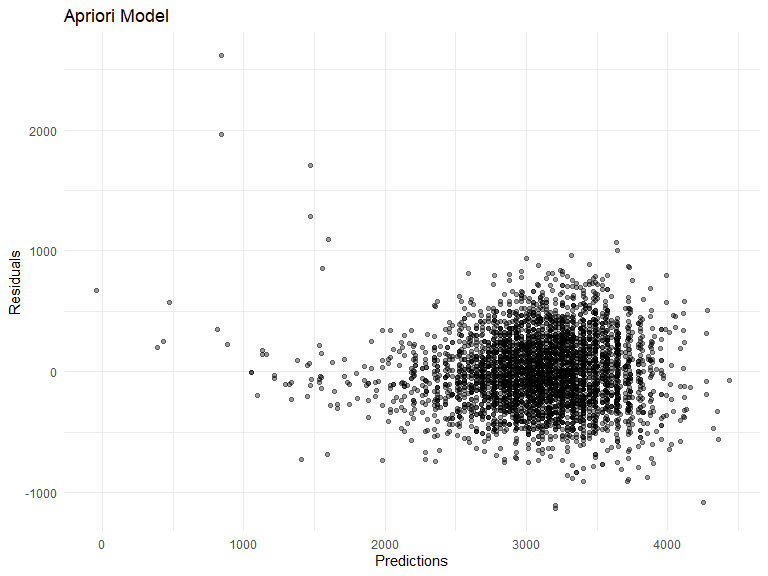
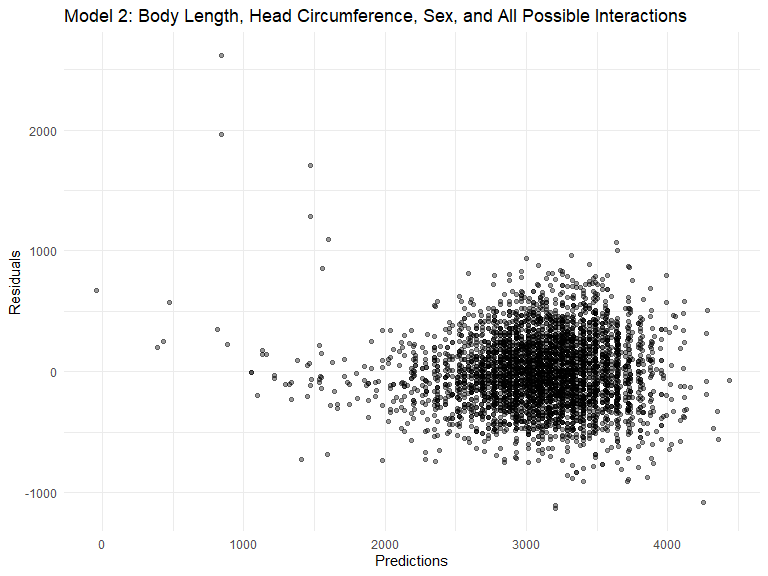
added comments and a few edits to question 2

Changed region(s): [[0.0625, 0.0, 0.9062, 0.0625]]

diff --git a/p8105_hw6_sne2114.md b/p8105_hw6_sne2114.md
@@ -164,7 +164,38 @@ pre-preganncy weight).
 
 ``` r
 my_model = lm(bwt ~ blength + bhead + gaweeks + delwt + ppwt + wtgain + delwt*wtgain, data = baby_df)
+summary(my_model)
+```
 
+``` 
+
+Call:
+lm(formula = bwt ~ blength + bhead + gaweeks + delwt + ppwt + 
+    wtgain + delwt * wtgain, data = baby_df)
+
+Residuals:
+     Min       1Q   Median       3Q      Max 
+-1085.50  -186.20    -7.53   174.83  2522.14 
+
+Coefficients: (1 not defined because of singularities)
+               Estimate Std. Error t value Pr(>|t|)    
+(Intercept)  -6.212e+03  1.017e+02 -61.076   <2e-16 ***
+blength       7.861e+01  2.071e+00  37.949   <2e-16 ***
+bhead         1.350e+02  3.497e+00  38.610   <2e-16 ***
+gaweeks       1.364e+01  1.491e+00   9.148   <2e-16 ***
+delwt         6.375e+00  2.214e+00   2.880    0.004 ** 
+ppwt         -4.431e+00  1.949e+00  -2.274    0.023 *  
+wtgain               NA         NA      NA       NA    
+delwt:wtgain -1.409e-02  1.189e-02  -1.186    0.236    
+---
+Signif. codes:  0 '***' 0.001 '**' 0.01 '*' 0.05 '.' 0.1 ' ' 1
+
+Residual standard error: 282 on 4335 degrees of freedom
+Multiple R-squared:  0.6973,    Adjusted R-squared:  0.6969 
+F-statistic:  1664 on 6 and 4335 DF,  p-value: < 2.2e-16
+```
+
+``` r
 baby_df %>% 
   add_residuals(my_model) %>% 
   add_predictions(my_model) %>%
@@ -181,16 +212,47 @@ baby_df %>%
 Prediction values seem to be concentrated between 2500 and 4000 while
 the residual values seem to aggregate between -600 and 1000.
 
+We will compared our model to two other hypothesized models: one
+predicting birth weight using baby body length and gestational age main
+effects only, the other model using baby body length, baby head
+circumference, baby sex, and all possible interaction terms to predict
+birth weight.
+
 ``` r
 model_1 = lm(bwt ~ blength + gaweeks, data = baby_df)
+summary(model_1)
+```
 
+``` 
+
+Call:
+lm(formula = bwt ~ blength + gaweeks, data = baby_df)
+
+Residuals:
+    Min      1Q  Median      3Q     Max 
+-1709.6  -215.4   -11.4   208.2  4188.8 
+
+Coefficients:
+             Estimate Std. Error t value Pr(>|t|)    
+(Intercept) -4347.667     97.958  -44.38   <2e-16 ***
+blength       128.556      1.990   64.60   <2e-16 ***
+gaweeks        27.047      1.718   15.74   <2e-16 ***
+---
+Signif. codes:  0 '***' 0.001 '**' 0.01 '*' 0.05 '.' 0.1 ' ' 1
+
+Residual standard error: 333.2 on 4339 degrees of freedom
+Multiple R-squared:  0.5769,    Adjusted R-squared:  0.5767 
+F-statistic:  2958 on 2 and 4339 DF,  p-value: < 2.2e-16
+```
+
+``` r
 baby_df %>% 
   add_residuals(model_1) %>% 
   add_predictions(model_1) %>%
   ggplot(aes(x = pred, y = resid)) + 
   geom_point(alpha = .4) +
   labs(
-    title = "Model 1: Baby Body Length and Gestational Age Main Effects Only",
+    title = "Model 1: Body Length and Gestational Age Main Effects Only",
     x = "Predictions",
     y = "Residuals")
 ```
@@ -199,16 +261,52 @@ baby_df %>%
 
 ``` r
 model_2 = lm(bwt ~ (blength + bhead + babysex)^2 + blength*bhead*babysex, data = baby_df)
+summary(model_2)
+```
 
+``` 
+
+Call:
+lm(formula = bwt ~ (blength + bhead + babysex)^2 + blength * 
+    bhead * babysex, data = baby_df)
+
+Residuals:
+     Min       1Q   Median       3Q      Max 
+-1132.99  -190.42   -10.33   178.63  2617.96 
+
+Coefficients:
+                         Estimate Std. Error t value Pr(>|t|)    
+(Intercept)            -7176.8170  1264.8397  -5.674 1.49e-08 ***
+blength                  102.1269    26.2118   3.896 9.92e-05 ***
+bhead                    181.7956    38.0542   4.777 1.84e-06 ***
+babysex2                6374.8684  1677.7669   3.800 0.000147 ***
+blength:bhead             -0.5536     0.7802  -0.710 0.478012    
+blength:babysex2        -123.7729    35.1185  -3.524 0.000429 ***
+bhead:babysex2          -198.3932    51.0917  -3.883 0.000105 ***
+blength:bhead:babysex2     3.8781     1.0566   3.670 0.000245 ***
+---
+Signif. codes:  0 '***' 0.001 '**' 0.01 '*' 0.05 '.' 0.1 ' ' 1
+
+Residual standard error: 287.7 on 4334 degrees of freedom
+Multiple R-squared:  0.6849,    Adjusted R-squared:  0.6844 
+F-statistic:  1346 on 7 and 4334 DF,  p-value: < 2.2e-16
+```
+
+``` r
 baby_df %>% 
   add_residuals(model_2) %>% 
   add_predictions(model_2) %>%
   ggplot(aes(x = pred, y = resid)) + 
   geom_point(alpha = .4) +
   labs(
-    title = "Apriori Model",
+    title = "Model 2: Body Length, Head Circumference, Sex, and All Possible Interactions ",
     x = "Predictions",
     y = "Residuals")
 ```
 
 <img src="p8105_hw6_sne2114_files/figure-gfm/unnamed-chunk-7-2.png" width="90%" />
+
+We can already visually see that the scatter plots for model 1 and model
+2 are more aggregated and compact that the plot for my model (the
+majority of residuals and prediction values seem to be condensed within
+a smaller range of values than in my model).
